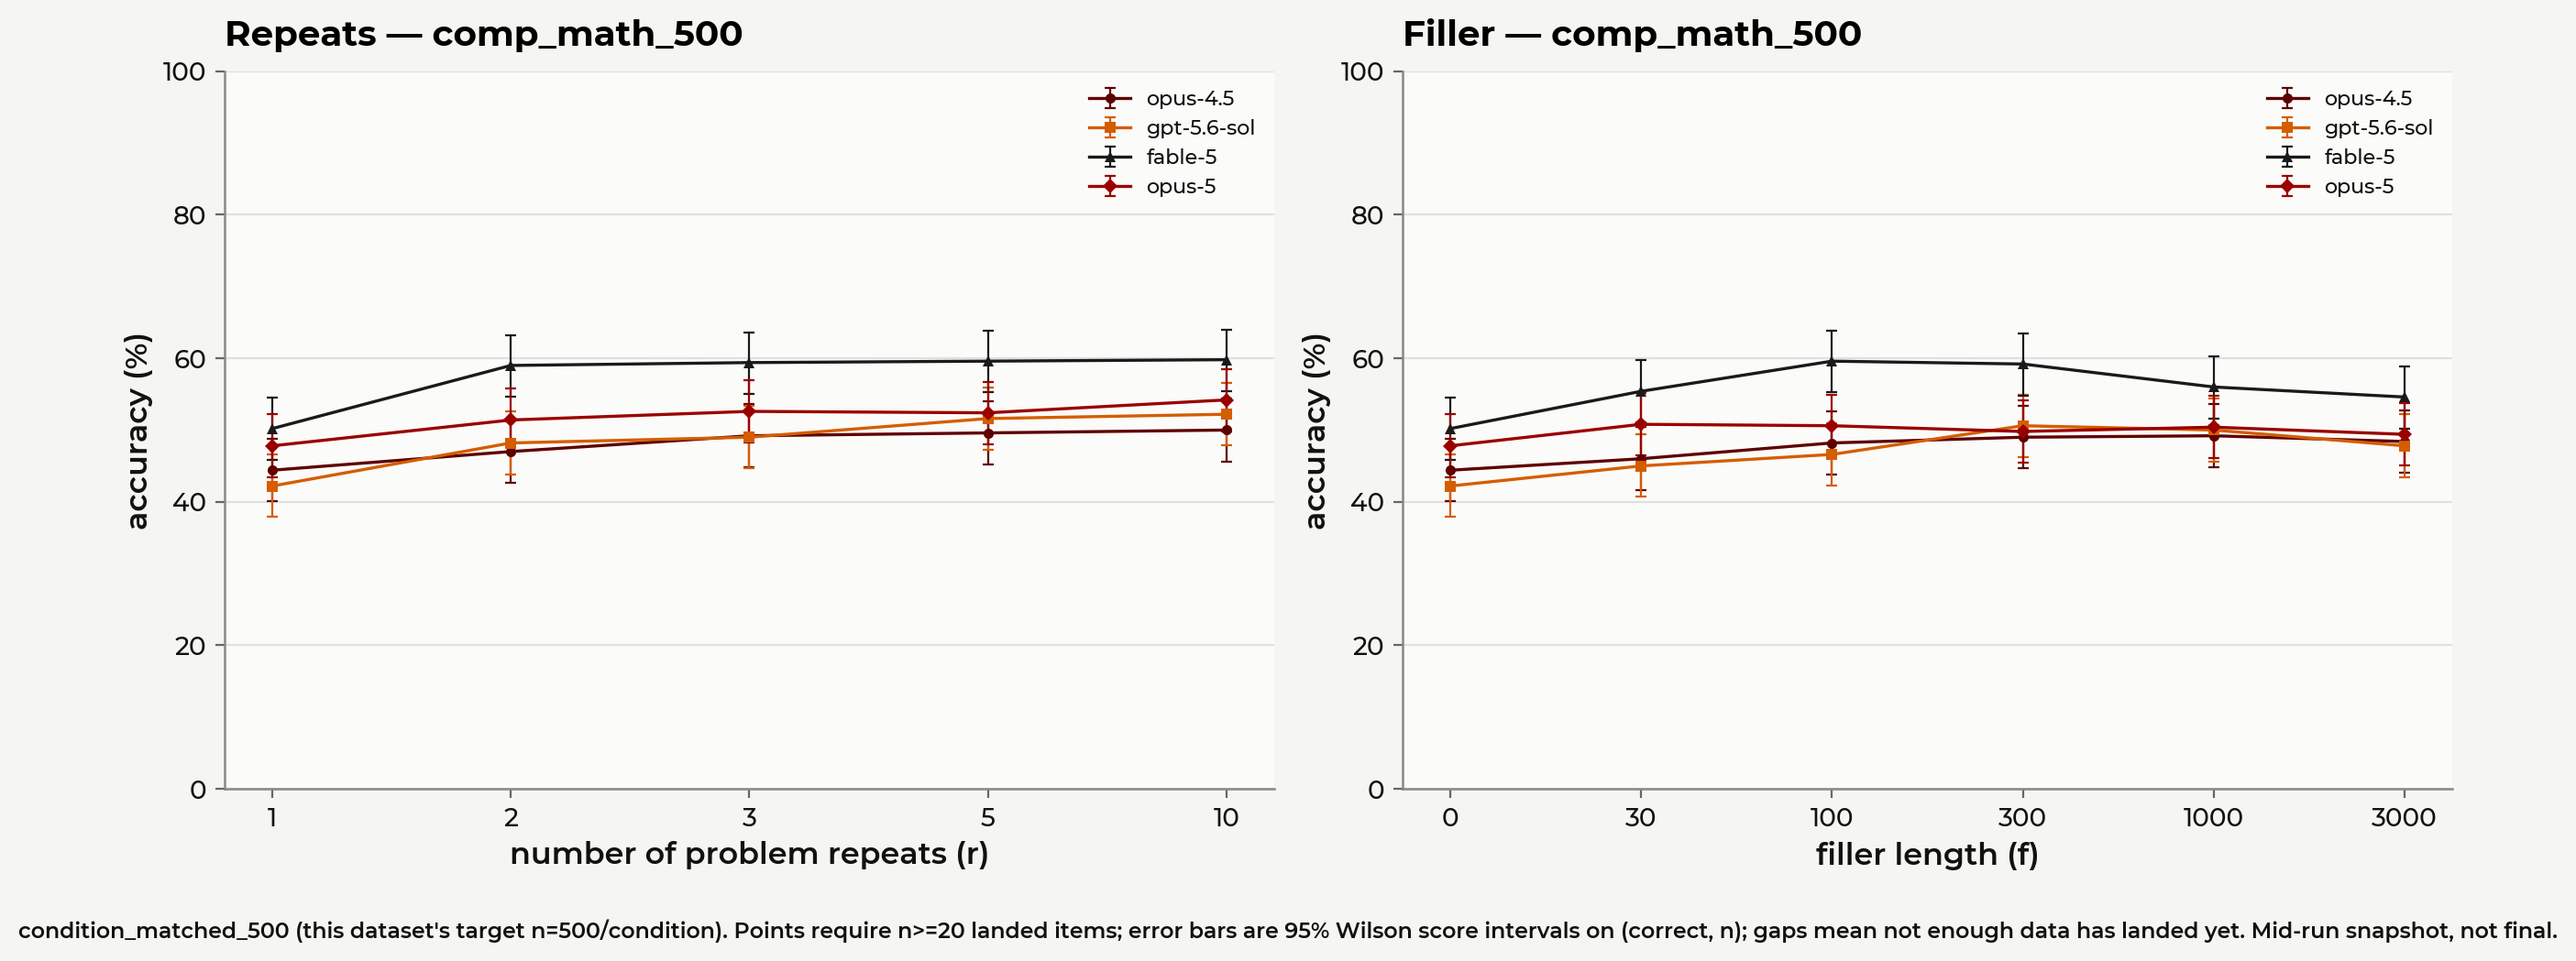
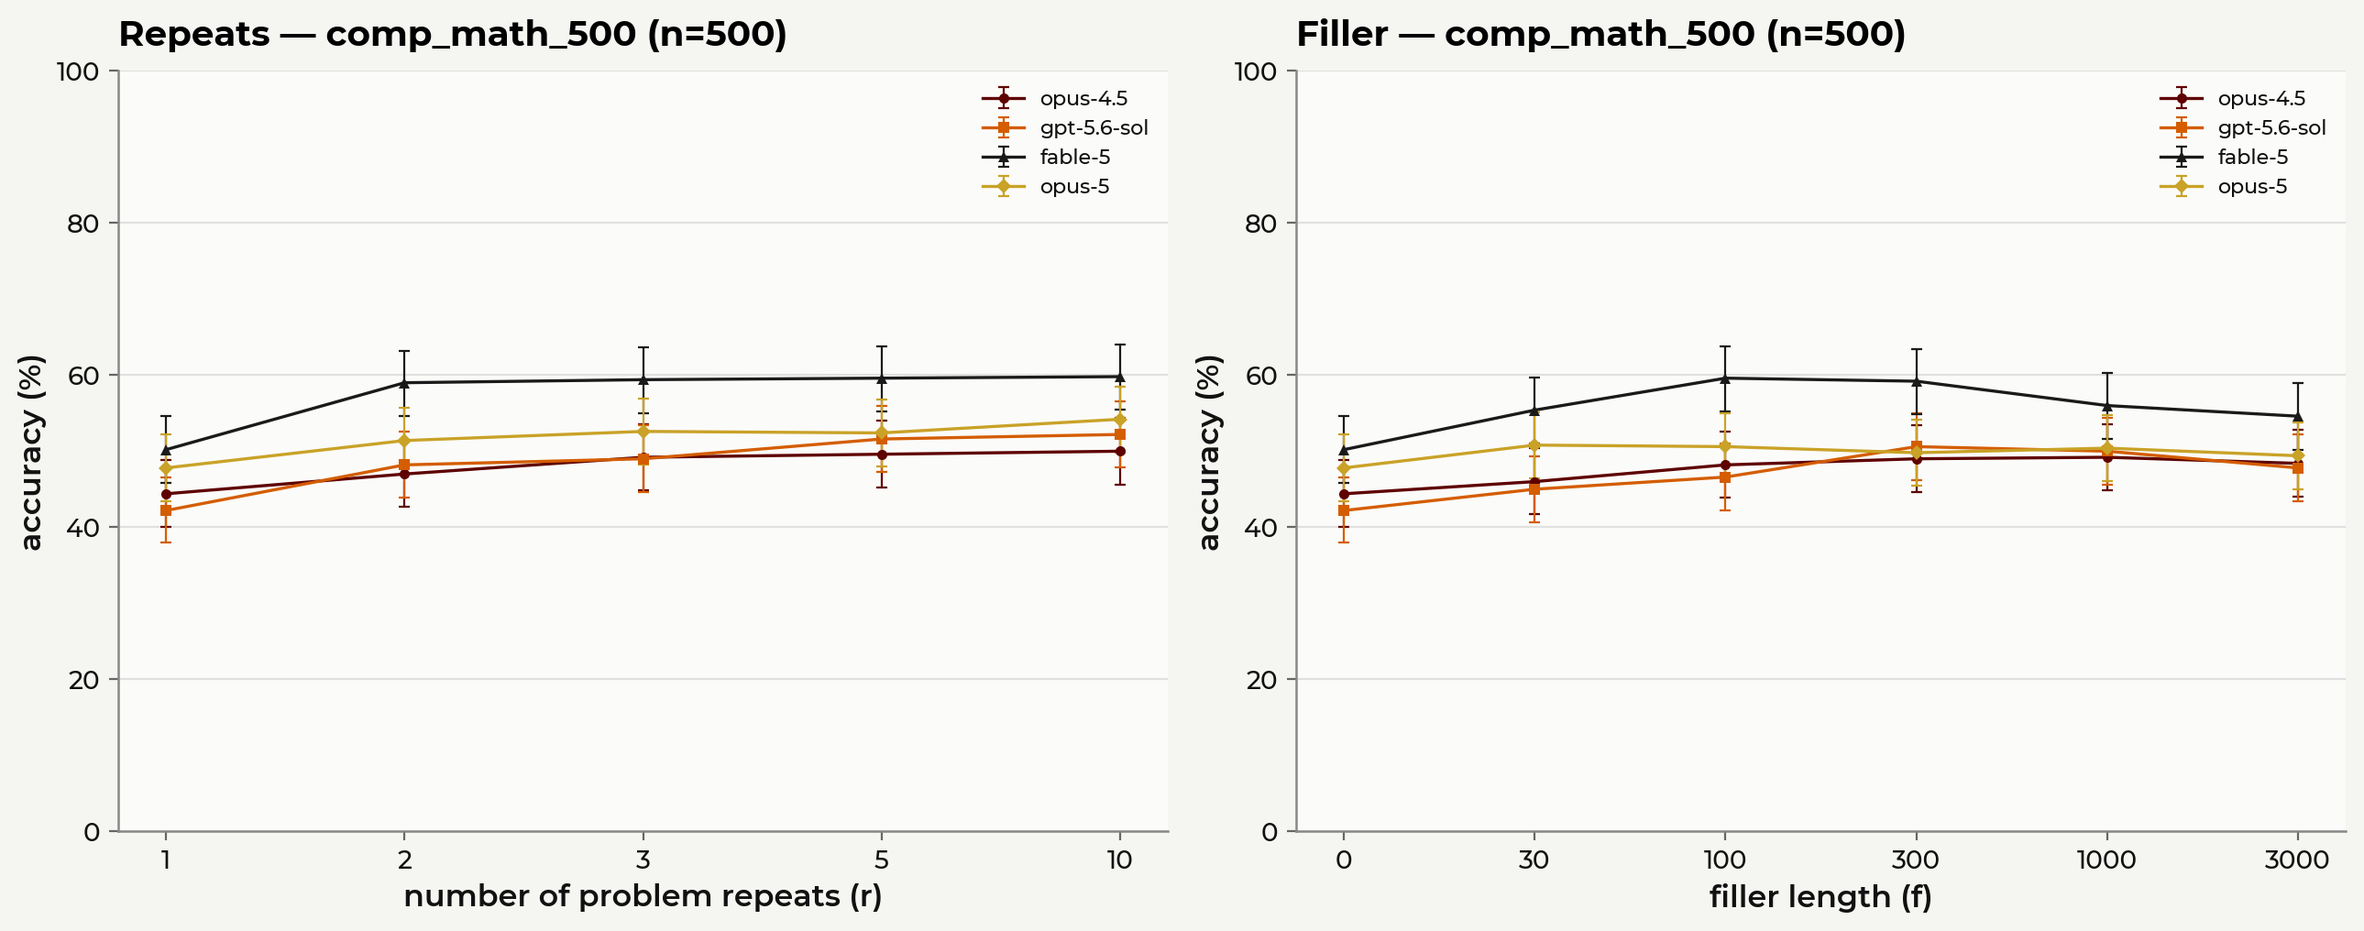
Polish final figures: drop mid-run footnote, n= in titles, fix color clash
Data collection is complete now, so the "mid-run snapshot, not final"
caption no longer applies — removed it and moved the target-n info
into each panel's title instead (e.g. "Repeats — gen_arithmetic_500
(n=500)"). Also fixed opus-4.5 and opus-5 sharing near-identical dark
reds from the house color cycle (indices 0 and 3) — picked an explicit
6-color list with better separation instead of raw C0..C3 cycling.

diff --git a/presentation/plot_sanity_check_lines.py b/presentation/plot_sanity_check_lines.py
@@ -99,14 +99,20 @@ def describe_coverage(counts: dict, models: List[str], dataset: str, min_n: int)
     return "\n".join(lines)
 
 
+# The house style's color cycle has two dark-red/maroon entries close together (index 0 "5e0000"
+# and index 3 "9a0000") that read as near-identical on a line plot — picked explicitly instead of
+# cycling raw C0..C3 so up to 6 model lines on one figure stay visually distinct.
+_LINE_COLORS = ["5e0000", "d45d00", "1a1a1a", "c9a227", "666666", "800000"]
+
+
 def plot_one_dataset(dataset: str, axes_spec: dict, counts: dict, min_n: int, models: List[str],
-                      out_path: Path, run_name: str, target_n: int) -> Path:
+                      out_path: Path, target_n: int) -> Path:
     fig, axes = plt.subplots(1, 2, figsize=(13, 5.2))
     for ax, (axis_key, title, xlabel) in zip(axes, PANELS):
         values = axes_spec.get(axis_key, [])
         xs = list(range(len(values)))
         for i, m in enumerate(models):
-            color = f"C{i}"
+            color = f"#{_LINE_COLORS[i % len(_LINE_COLORS)]}"
             ys, lo_err, hi_err = [], [], []
             for v in values:
                 key = (m, dataset, cond_label(axis_key, v) + "+md")
@@ -130,7 +136,7 @@ def plot_one_dataset(dataset: str, axes_spec: dict, counts: dict, min_n: int, mo
         ax.set_xticklabels([str(v) for v in values])
         ax.set_xlabel(xlabel)
         ax.set_ylabel("accuracy (%)")
-        ax.set_title(f"{title} — {dataset}")
+        ax.set_title(f"{title} — {dataset} (n={target_n})")
         # Multi-hop accuracy stays low everywhere (nhop_3/nhop_4 top out well under 20%) — a
         # 0-100 scale flattens the real differences between conditions/models into noise-looking
         # wiggles near the axis floor, so nhop datasets get a tighter 0-50 range instead.
@@ -138,12 +144,7 @@ def plot_one_dataset(dataset: str, axes_spec: dict, counts: dict, min_n: int, mo
         if ax.get_legend_handles_labels()[0]:
             ax.legend(ncol=1, fontsize=8)
 
-    caption = (f"{run_name} (this dataset's target n={target_n}/condition). Points require "
-               f"n>={min_n} landed items; error bars are 95% Wilson score intervals on "
-               f"(correct, n); gaps mean not enough data has landed yet. Mid-run snapshot, not "
-               f"final.")
-    fig.text(0.5, 0.005, caption, ha="center", fontsize=8.5, fontweight="semibold", color="#111111")
-    fig.tight_layout(rect=(0, 0.045, 1, 1))
+    fig.tight_layout()
     out_path.parent.mkdir(parents=True, exist_ok=True)
     fig.savefig(out_path)
     plt.close(fig)
@@ -194,7 +195,7 @@ def main(argv: List[str] | None = None) -> int:
         target_n = min(len(schema.load_jsonl(registry.DATASETS[dataset].eval_path)),
                        config.NAMED_RUNS[args.run]["n"])
         out = out_dir / f"{args.run}_lines_{dataset}.png"
-        plot_one_dataset(dataset, axes_spec, counts, args.min_n, models, out, args.run, target_n)
+        plot_one_dataset(dataset, axes_spec, counts, args.min_n, models, out, target_n)
         print(f"wrote {out}")
         print(describe_coverage(counts, models, dataset, args.min_n))
     return 0
